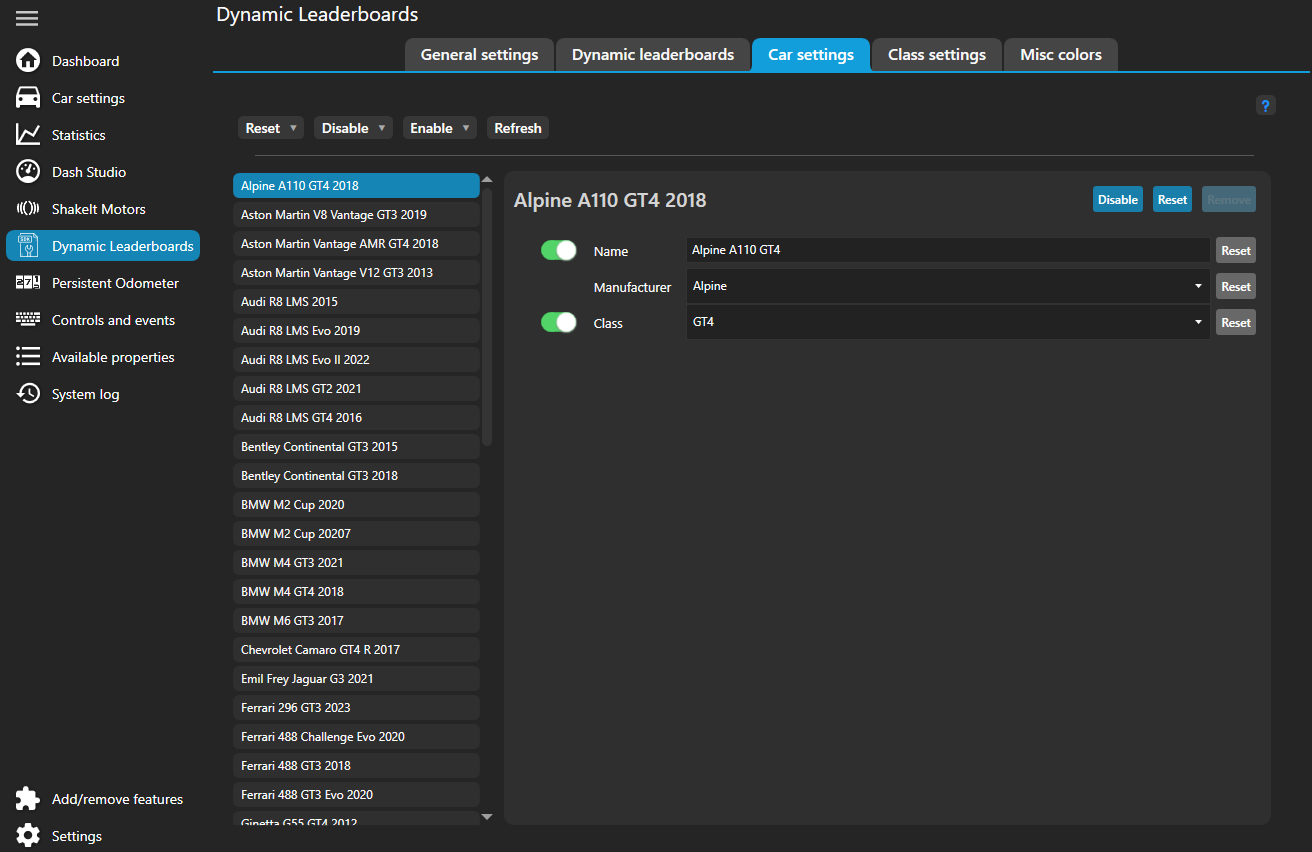
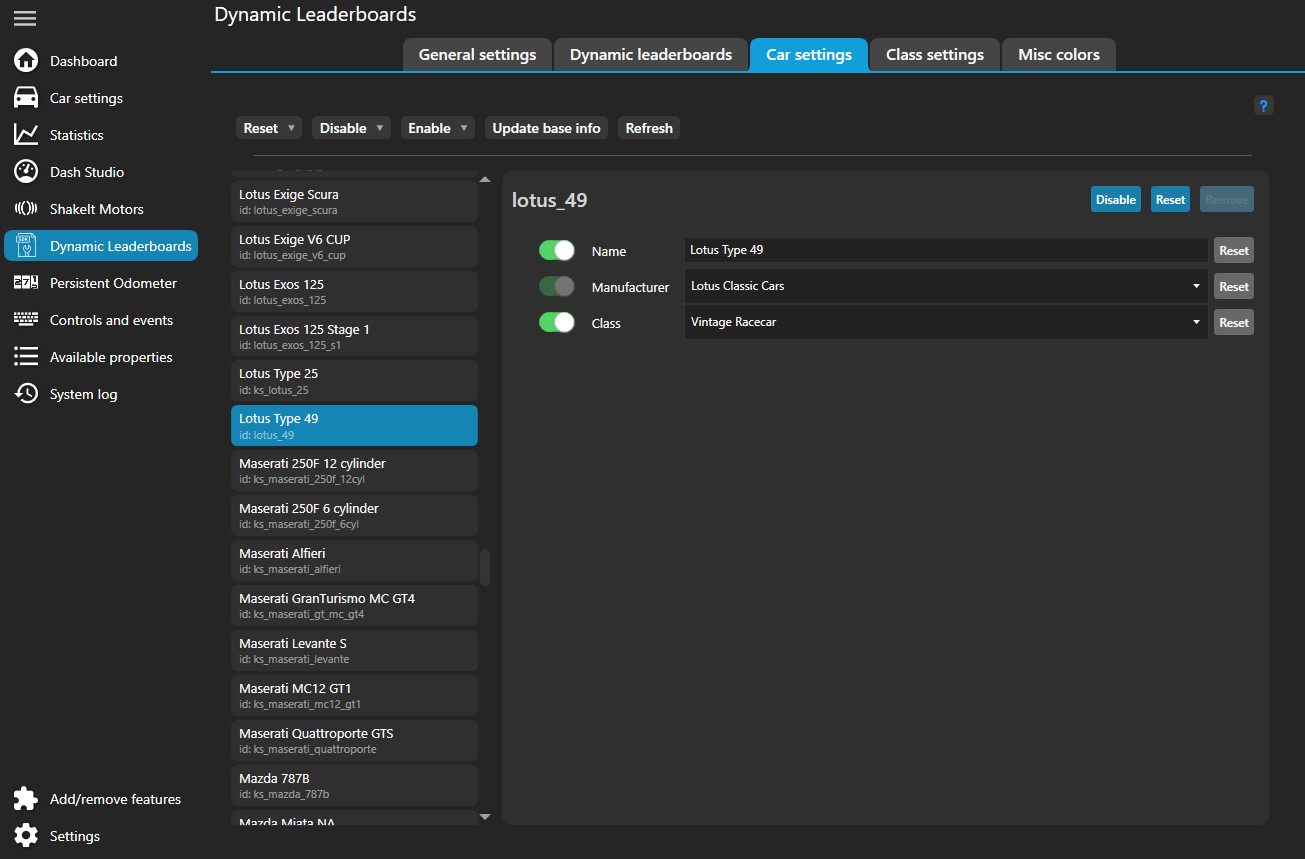
docs: explain new ui elements in class settings menu
* blue dot for disabled color and usage of SImHub colors
* replacement class preview box

diff --git a/docs/docs/user_guide/config.md b/docs/docs/user_guide/config.md
@@ -140,7 +140,9 @@ If you are creating your own dashboard make sure to give [Creating dashboards](c
 
 This tab provides an option to change car names, manufacturers and classes. 
 All the available cars are listed on the left. 
-The listed name is the name provided by SimHub.
+The listed name is the model name exported by the plugin.
+An id used by SimHub is listed as small text below.
+
 If the plugin detects a new car while in game it will be added to the list but for now you'll
 need to manually refresh the list by clicking the `Refresh` button.
 This is so that we don't build unnecessary UI elements when they are not viewed and we are actually racing.
@@ -225,7 +227,7 @@ Either from the plugin menu or by modifying AC files directly which Content Mana
 ![Screenshot](../img/Config/ClassSettings.png)
 
 This tab provides an option to change class data. 
-All the available classes are listed on the left but you can add new classes too (from `Add new class` button). 
+All the available classes are listed on the left but you can add new classes too (from `Add new class` button).
 
 Again as with ["Car settings"](#car-settings) tab if the plugin detects new classes
 they will be added to the list but for now you'll need to manually refresh the 
@@ -246,6 +248,7 @@ Base data is provided for ACC and AMS2 to match in game class colors and for R3E
     You can change them from the "Car settings" item on the left menu (not to be confused with this plugins "Car settings" menu).
 
     If the base data is not available then the plugin default is to disable this property and use SimHub provided colors.
+    This is indicated by a small blue dot next to the class preview in the classes list.
 
 ***Short name***
 
@@ -285,6 +288,14 @@ Base data is provided for ACC and AMS2 to match in game class colors and for R3E
         To easily revert back to the old state reset or disable the `replace with` property on the old class.
 
     If the base data is not available then the plugin default is to disable `replace with`.
+
+    To easily identify which class is replaced with something else, we show a second class preview box in the classes list.
+    For example in the screenshot above "DTM 2014" is replaced with "DTM 2013", but "DTM 2013" is not replaced itself.
+
+    Note that replacements can have multiple steps. 
+    For example if class "A" has set `replace with` to "B" and "B" itself is replaced by "C" then "A" will actually also be replaced with "C".
+    This is also reflected in the replacement class preview box.
+
 
 ## Misc colors
 
